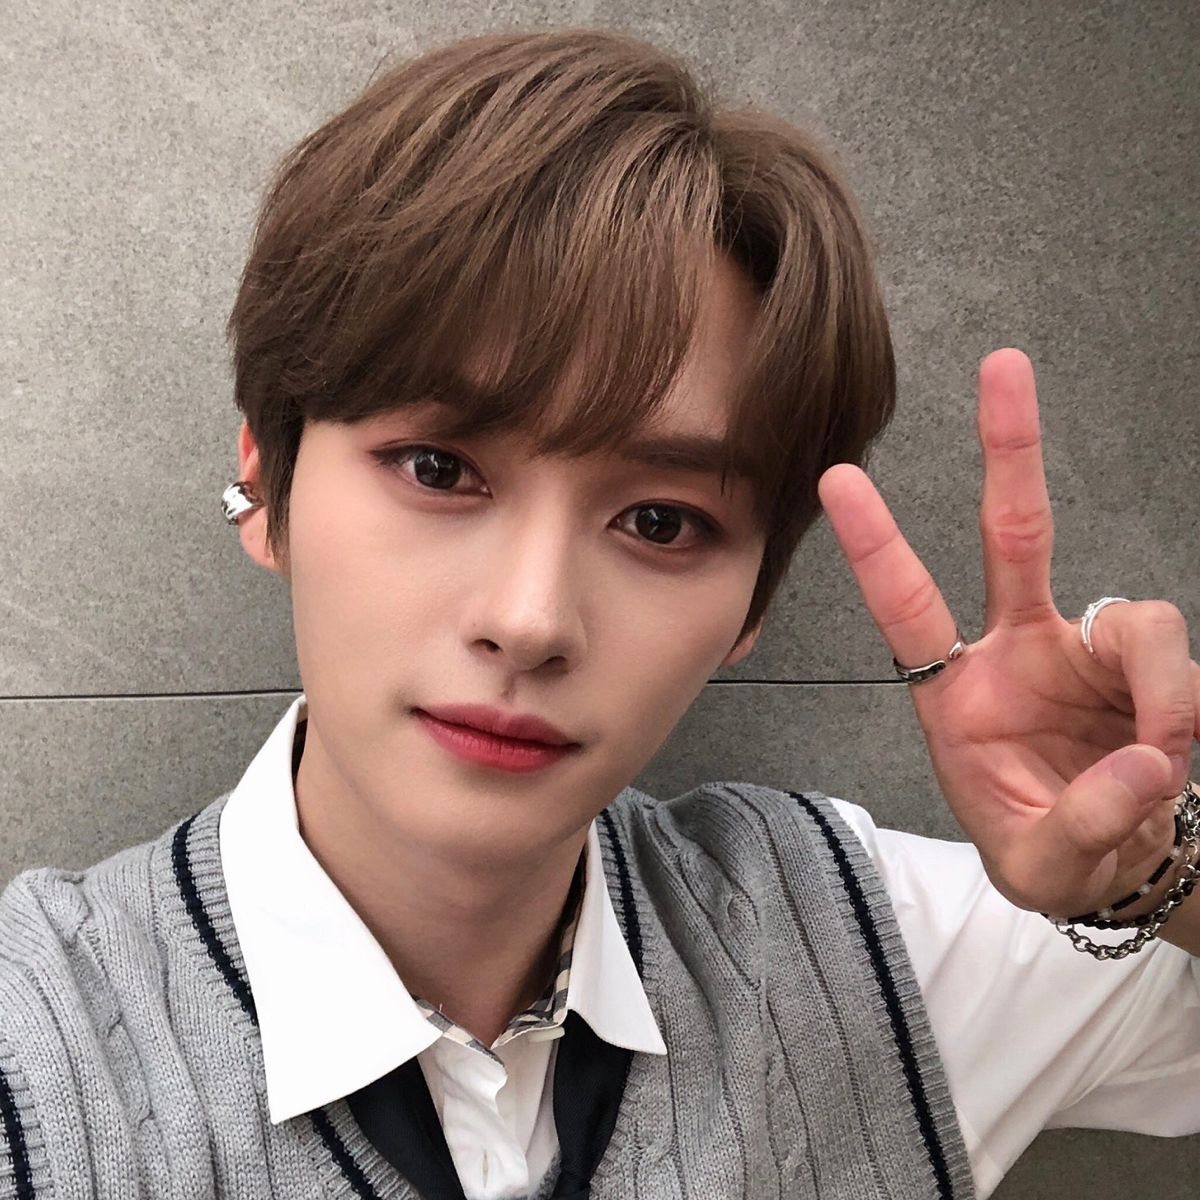
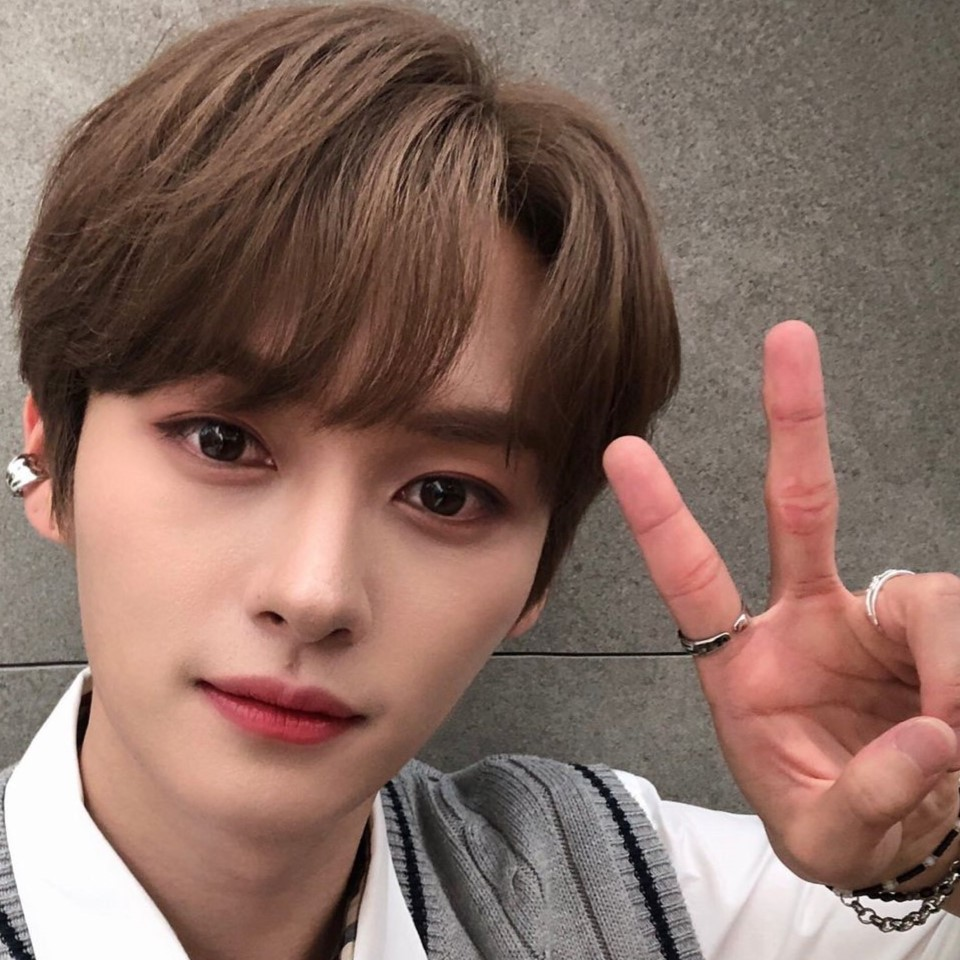
Add object-fix

diff --git a/index.html b/index.html
@@ -1,8 +1,8 @@
-<!DOCTYPE html>
+<!DOCTYPE html>http://127.0.0.1:3000/index.html
 <html>
 <header>
     <meta charset="UTF-8">
-  <meta name="viewport" content="width=device-width, initial-scale=1.0">
+    <meta name="viewport" content="width=device-width, initial-scale=1.0">
     <link href="https://cdn.jsdelivr.net/npm/daisyui@4.12.13/dist/full.min.css" rel="stylesheet" type="text/css" />
     <script src="https://cdn.tailwindcss.com"></script>
     <link href="styles.css" rel="stylesheet">
@@ -15,7 +15,8 @@
 <br>
 
 <section>
-    <h2>Über Stray Kids</h2>
+    <h2 class="font-black">Über Stray Kids</h2>
+    <br>
     <p>Stray Kids (abgekürzt: SKZ, koreanisch: 스트레이 키즈) ist nach BTS die zweiterfolgreichste K-Pop-Boygroup, die 2017
         durch eine Survival-Show gebildet wurde. Stray Kids sind bei JYP Entertainment unter Vertag. Ursprünglich
         bestanden sie aus 9 Membern, von denen einer 2019 die Gruppe verlassen hat. Die aktuellen Member sind Bang Chan,
@@ -27,7 +28,7 @@
 <br>
 
 <section>
-    <h2>Die Member</h2>
+    <h2 class="font-black">Die Member</h2>
     <br>
     <div class="flex-container1">
         <container>
@@ -40,6 +41,7 @@
                 <li>Fun facts: er war 7 Jahre lang Trainee, er hat 1 Hund und ist Australier</li>
             </ul>
         </container>
+        <br>
         <container>
             <h3>Lee Know</h3>
             <img src="LK.jpg" class="member">
@@ -50,6 +52,7 @@
                 <li>Fun facts: er war Backgroundtänzer für BTS, er hat 3 Katzen und ist beidhändig</li>
             </ul>
         </container>
+        <br>
         <container>
             <h3>Changbin</h3>
             <img src="CB.jpg" class="member">

diff --git a/styles.css b/styles.css
@@ -1,16 +1,25 @@
-h1 {
-    text-align: center;
-    font-size: 50px;
-}
-
-.Gruppenbild {
-    height: 70%;
-    width: 70%;
-}
-
 h1, h2, h3, p, li {
     font-family: sans-serif;
 }
+
+h1 {
+    text-align: center;
+    font-size: 60px;
+}
+
+h2 {
+    font-size: 30px;
+}
+
+h3 {
+    font-size: 25px;
+}
+
+.Gruppenbild {
+    height: 80%;
+    width: 80%;
+}
+
 
 .li {
     font-family: sans-serif;
@@ -18,25 +27,27 @@ h1, h2, h3, p, li {
 }
 
 .member {
-    height: 30%;
-    width: 30%;
-    padding: 10px, 30px;
+    object-fit: contain;
+    padding: 5%;
 }
 
 .flex-container1 {
     display: flex;
+    gap: 30px 40px;
 }
 
 .flex-container2 {
     display: flex;
+    gap: 30px 40px;
 }
 
 .flex-container3 {
     display: flex;
+    gap: 20px 20px;
 }
 
 .container {
     display: flex;
     align-content: center;
-    gap: 20px 40px;
+    gap: 30px 40px;
 }
